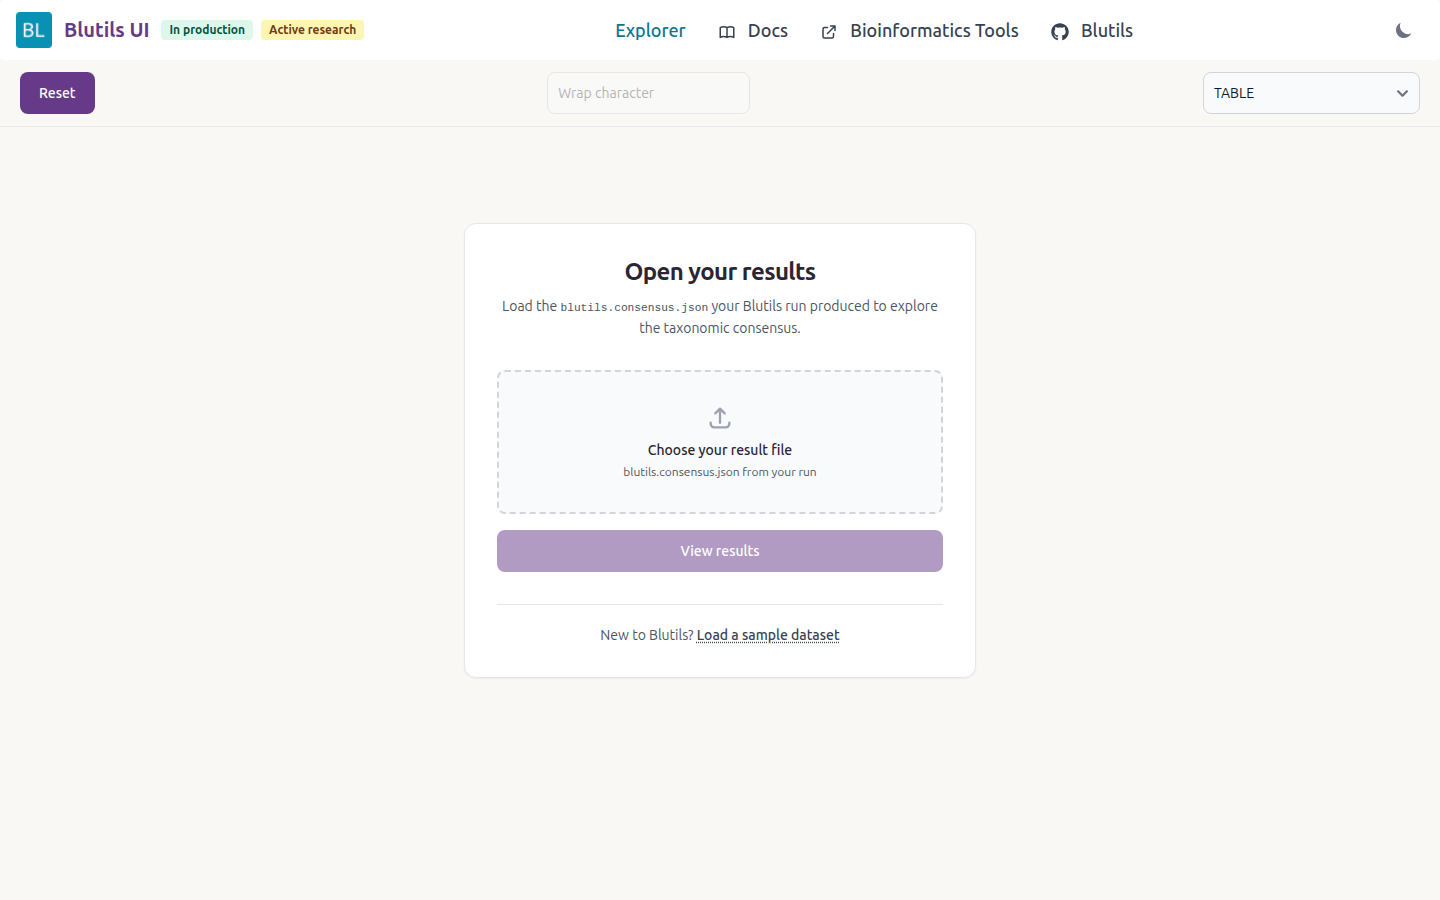
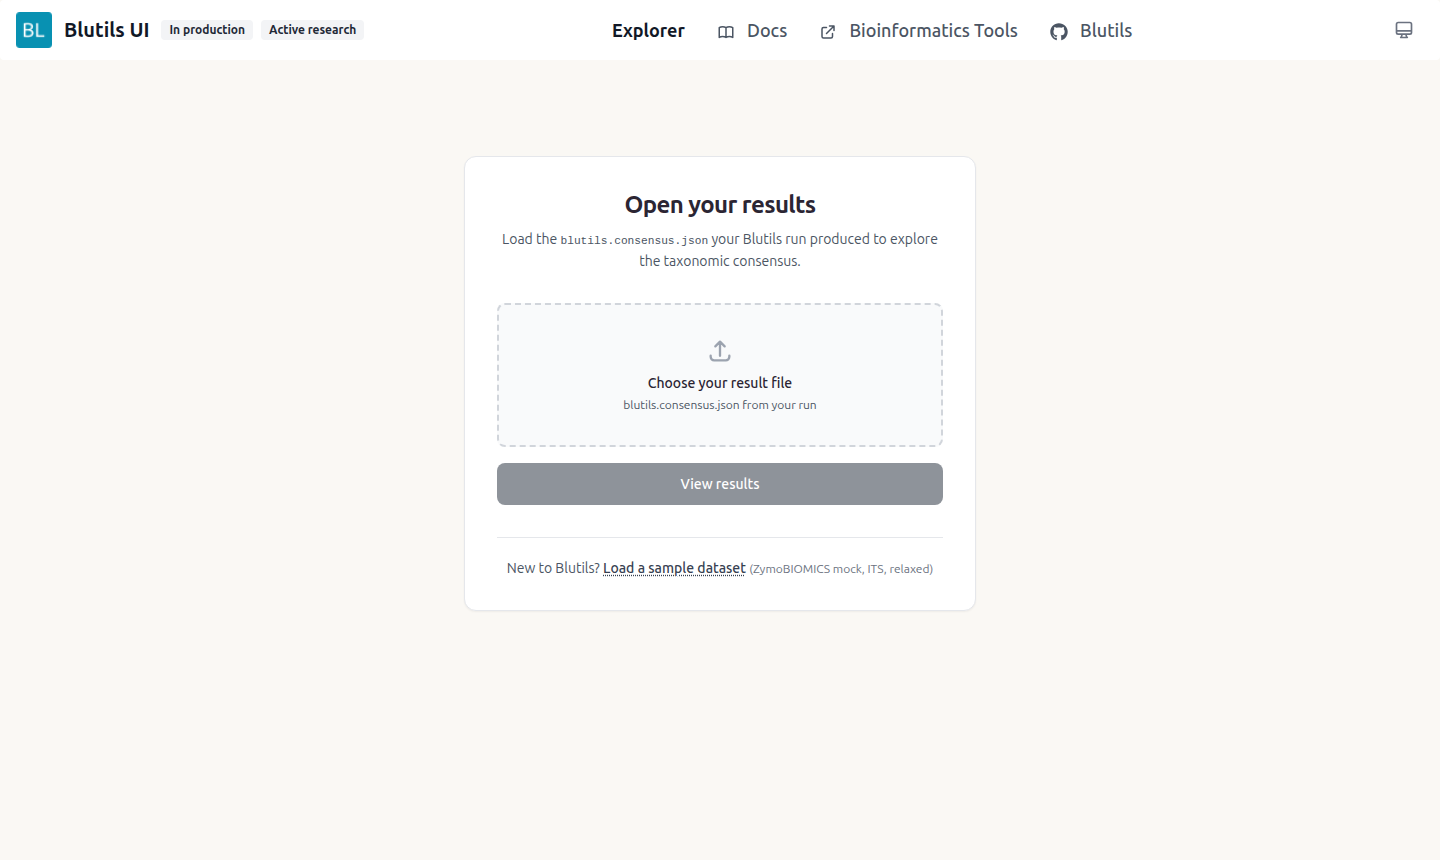
docs(book): refresh the online viewer guide and screenshots
Rewrite 03_blutils_online_viewer.md for the reworked viewer: opening a
result (the sample dataset, ?p= links and URL state), the record list,
sorting, the filter (tokens, suggestions, taxonomy tree), the three
views, the charts, rules, record details and the theme. The screenshots
were regenerated (01-08 replaced, 09-13 added) with the bundled
ZymoBIOMICS ITS sample.

diff --git a/docs/book/03_blutils_online_viewer.md b/docs/book/03_blutils_online_viewer.md
@@ -1,63 +1,195 @@
 # The Blutils Online Viewer
 
 `Blutils` provides an online viewer to explore the consensus taxonomic
-identities
-and the blast matches. This is a client-side application that runs in the
-browser. "Your data never leaves your computer" is the main motto of the
-application.
+identities of a run. It is a client-side application that runs entirely in the
+browser: your result file is read locally and **never leaves your computer**.
 
-## Accessing the Blutils Online Viewer
+## Accessing the viewer
 
-Users can access the Blutils Online Viewer by going to the following URL:
+Open the viewer at:
 
 ```bash
 https://lepistabioinformatics.github.io/blutils-ui/
 ```
 
-This is the main page of the Blutils Online Viewer:
+## Opening a result
 
-![Blutils Online Viewer](./images/blutils-ui-01.png)
+Choose the `blutils.consensus.json` file produced by your run and click **View
+results**. To try the viewer without a file of your own, click **Load a sample
+dataset**. It opens the ZymoBIOMICS mock community ITS run, classified with the
+relaxed strategy, from the Blutils benchmark.
 
-To see your first results, simple upload the `blutils.out.json` file to the
-viewer and click in submit.
+![Opening a result](./images/blutils-ui-01.png)
 
-![Upload Blutils JSON](./images/blutils-ui-02.png)
+A result can also be opened from a link: add `?p=<url of a result file>` to the
+viewer address. The current view, group and filter are kept in the address too
+(`?v=`, `?g=`, `?f=`), so a link brings anyone back to exactly what you are
+looking at.
 
-`Blutils` include three different view modes:
+While a result is open, **Reset** (top right, in the navigation bar) closes it
+and returns to this screen.
 
-- Table
-- Grouped by taxonomic rank
-- Grouped by query sequence
+## The record list
 
-Table is the default view mode and displays the results in a table format.
-Grouped by taxonomic rank displays the results in a tree format grouped by
-taxonomic rank.
+Each record is one entry in the list. The columns line up across entries, so
+values are easy to compare:
 
-![Blutils Online Viewer Grouped by Taxonomic Rank](./images/blutils-ui-03.png)
+- **Query**: the sequence name. Below it you see the rank that was reached
+  and the full lineage.
+- **Proposed taxon**: the consensus taxon at the reached rank. When it
+  differs, the most probable consensus bean is shown below it.
+- **Rule**: how the proposed taxon was chosen, as a single word (see the
+  Rules section below).
+- **Composition**: identity (%) and bit score, with a bar of the consensus
+  beans below them. Each block is one candidate taxon, sized by its
+  occurrences. Hover a block to see its name.
 
-Grouped by query sequence displays the results in a network format grouped by
-query sequence.
+The list scrolls inside the page, so all the records are always one scroll
+away; there are no pages to click through.
 
-![Blutils Online Viewer Grouped by Query Sequence](./images/blutils-ui-04.png)
+Click anywhere on a record (except its rule) to open its details. With the
+keyboard, **↑** and **↓** move through the records and **Enter** opens the
+highlighted one.
 
-In tabular view mode, user can apply filters to the query sequences or simple
-filter by taxonomic rank.
+![The record list](./images/blutils-ui-02.png)
 
-![Blutils Online Viewer Table Filters](./images/blutils-ui-05.png)
+### Sorting
 
-In grouped by taxonomic rank view mode, user can can navigate through the
-taxonomic ranks and see the consensus taxonomic identities and the blast
-matches for each taxonomic rank using the left-side panel.
+Click **Query**, **Taxonomy** or **Proposed taxon** in the column header to
+sort. Each click goes ascending, then descending, then back to the original
+order of the file. While a sort is active, the **Original order** button
+restores the file order at once. Sorting works the same way in every view; in
+the grouped views it applies to the records of the group and is kept while you
+move between groups.
 
-![Blutils Online Viewer Grouped by Taxonomic Rank](./images/blutils-ui-06.png)
+![Sorting by proposed taxon](./images/blutils-ui-05.png)
 
-Using the composition chart, users can easily understand why a consensus
-identity was selected for a query sequence, just by looking at the distribution
-of the query sequences that were assigned to each taxonomic rank.
+## Filtering
 
-![Blutils Online Viewer Composition Chart](./images/blutils-ui-07.png)
+The search box filters the records in every view, and the filter is kept when
+you switch views. Type free text to match the query, the proposed taxon or the
+lineage, or use tokens:
 
-By clicking in a consensus identity, the viewer will display details about the
-blast results used to generate the consensus identity.
+| Token | Keeps records whose… |
+|---|---|
+| `q:<text>` | query contains the text |
+| `t:<text>` | lineage contains the text (quotes allow spaces: `t:"bacillus subtilis group"`) |
+| `rank:<rank>` | reached rank is the given one |
+| `rule:<word>` | rule is the given one (`unanimous`, `majority`, `ambiguous`, `unresolved`) |
+| `id>=97`, `id<90` | identity matches the comparison |
+| `bits>=500` | bit score matches the comparison |
+| `has:match` / `no:match` | have / do not have a significant match |
 
-![Blutils Online Viewer Consensus Identity Details](./images/blutils-ui-08.png)
+Press **Enter** to turn what you typed into filter chips. Remove a chip with its
+**×**, or remove them all with **Clear filters**. The buttons below the box
+insert a token for you. After `q:`, `t:`, `rank:` or `rule:`, the box suggests
+the values found in your result, with how many records have each one.
+
+![Filtering with suggestions](./images/blutils-ui-03.png)
+
+**Taxonomy tree** opens the lineages of the result as a tree. Expand the
+levels with the arrows, and click a name to keep only the records under it.
+
+![Taxonomy tree](./images/blutils-ui-04.png)
+
+## Views
+
+The selector under the filter buttons switches between three views. In the two
+grouped views, **List / Charts** switches between the records of one group at a
+time and charts of all the groups (see the Charts section below).
+
+### Table
+
+All the records in one list, as described above.
+
+### By taxonomy
+
+The records are grouped by proposed taxon. The table of contents on the left
+lists every group with its size. Move between groups with the arrows on the
+sides of the list (or below it on small screens), or with the **←** and **→**
+keys; the matching arrow pulses on every move.
+
+![Grouped by taxonomy](./images/blutils-ui-06.png)
+
+### By subject
+
+The records are grouped by query. **Group by prefix** splits each query at a
+*wrap character* and groups the records by the part before it. For example,
+with `.`, `SRR25644443.100_size_2` is grouped under `SRR25644443`, which puts
+all the reads of a sample together.
+
+The viewer suggests the characters that actually group your queries, with the
+number of groups each would create. A Before/After example shows the effect on
+one of your queries. You can also type any character and press **Enter**.
+
+![Grouped by subject with a wrap character](./images/blutils-ui-07.png)
+
+## Charts
+
+In **By taxonomy** and **By subject**, switch **List / Charts** to **Charts** to
+see every group at once. Each chart counts **Records** (one per query) or
+**Reads**: dereplicated query names such as `SRR25644443.1_size_659` carry the
+number of reads behind them, so Reads shows the real abundance. Where a chart
+aggregates by rank, a **Rank** selector picks the level (domain to species).
+Every bar, segment and cell shows its value on hover or keyboard focus, and the
+filter applies to the charts too.
+
+By taxonomy offers three charts:
+
+- **Abundance**: one bar per taxon at the chosen rank, largest first. Click a
+  bar to open that group's records.
+- **Lineage**: a sunburst of the lineages, from the root outwards. Click a ring
+  to zoom in, use the breadcrumb to zoom out, and **Filter by …** to keep only
+  that lineage.
+- **Confidence**: for the largest groups, the spread of identities (quartiles,
+  median and range) next to the mix of rules.
+
+![Abundance by genus](./images/blutils-ui-11.png)
+
+![Lineage sunburst](./images/blutils-ui-12.png)
+
+By subject offers three more, which follow the wrap character:
+
+- **Composition**: one 100% bar per subject with the most abundant taxa in
+  fixed colors, the classic relative-abundance plot to compare samples.
+- **Heatmap**: subjects × the top taxa, shaded by their share in each subject.
+- **Summary**: records, reads, matched share, mean identity and the rule mix of
+  each subject.
+
+![Composition per subject](./images/blutils-ui-13.png)
+
+## Rules
+
+The rule tells how the most probable taxon was picked among the consensus
+beans. Click the rule of any record to open this explanation:
+
+- **Unanimous**: there is only one consensus bean.
+- **Majority**: the most frequent bean has at least twice the occurrences of
+  the runner-up.
+- **Ambiguous**: several beans compete and none reaches twice the runner-up.
+- **Unresolved**: the record has no consensus beans.
+
+![Rules](./images/blutils-ui-08.png)
+
+## Record details
+
+Click anywhere on a record (except its rule), or press **Enter** on the
+highlighted one, to open its details. **Esc** or a click outside closes them.
+
+It shows:
+
+- the proposed taxon and the composition;
+- the lineage, one rank per line;
+- the details of the classification (reached and maximum allowed rank, single
+  match, mutated);
+- the rule, followed by every consensus bean with its occurrences and the
+  accessions of the reference sequences that support it.
+
+![Record details](./images/blutils-ui-09.png)
+
+## Theme
+
+The viewer follows your system's light or dark theme. The button at the top
+right cycles between **System**, **Light** and **Dark**.
+
+![Dark theme](./images/blutils-ui-10.png)
